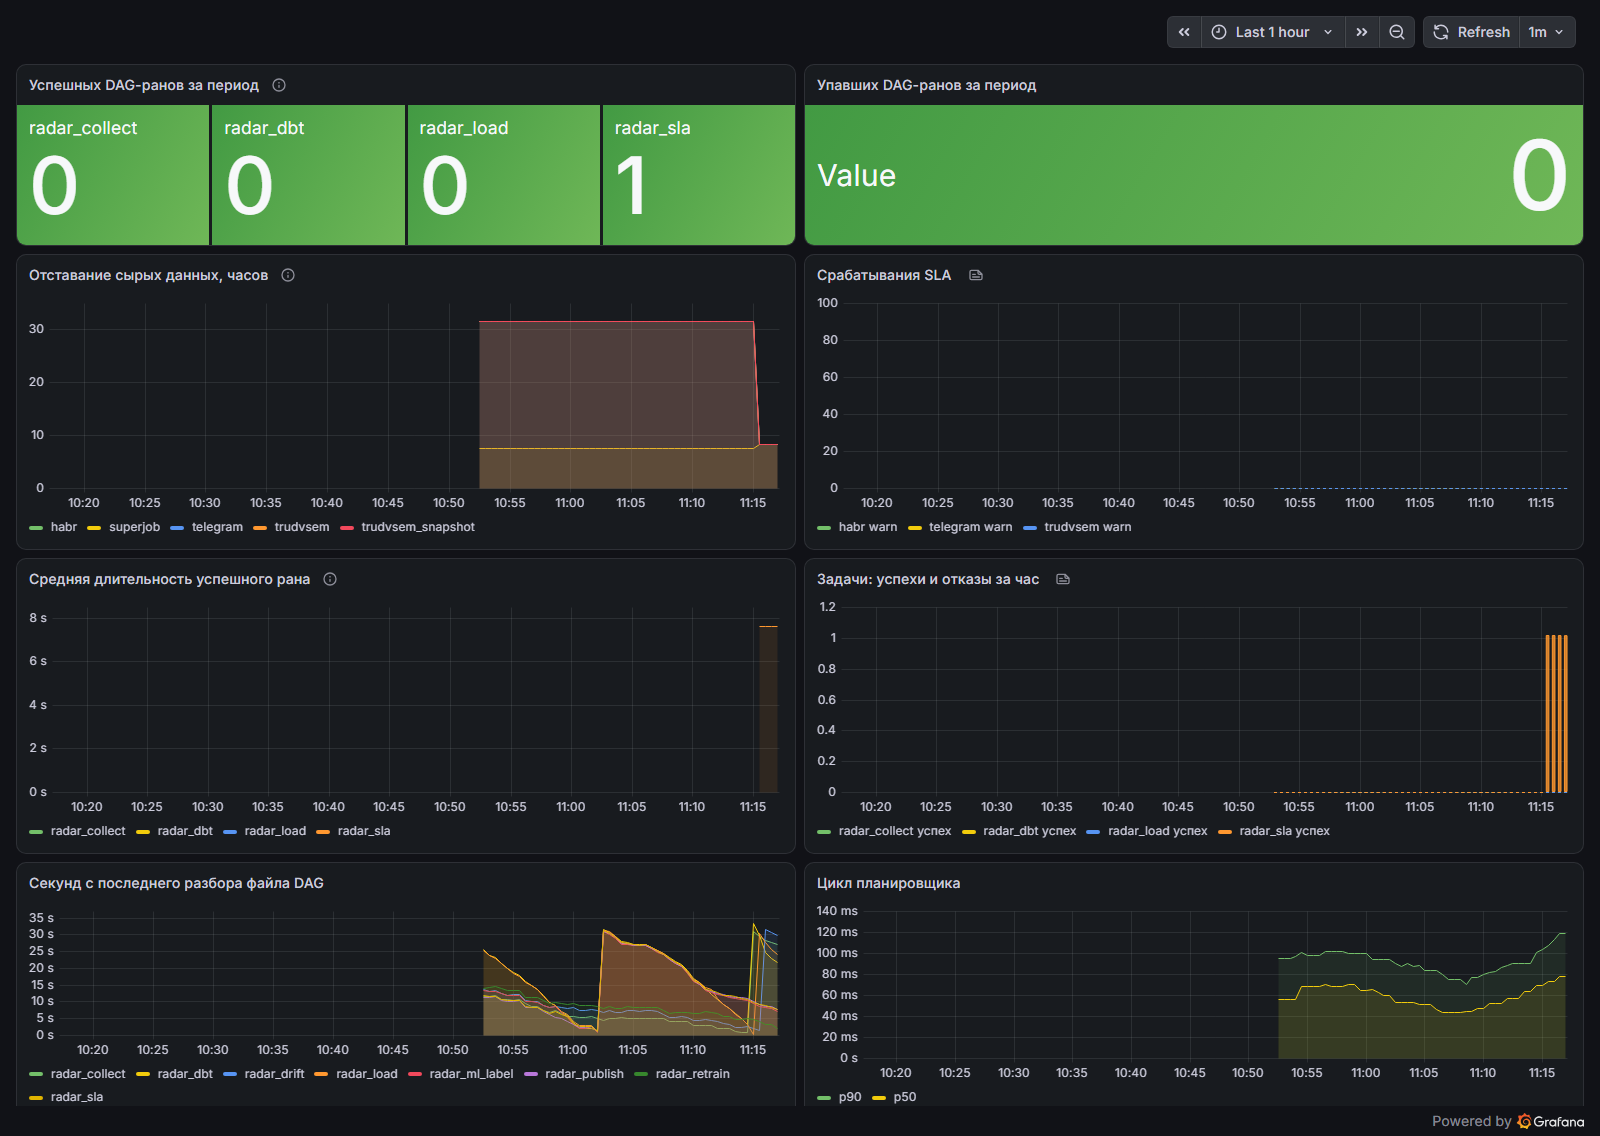
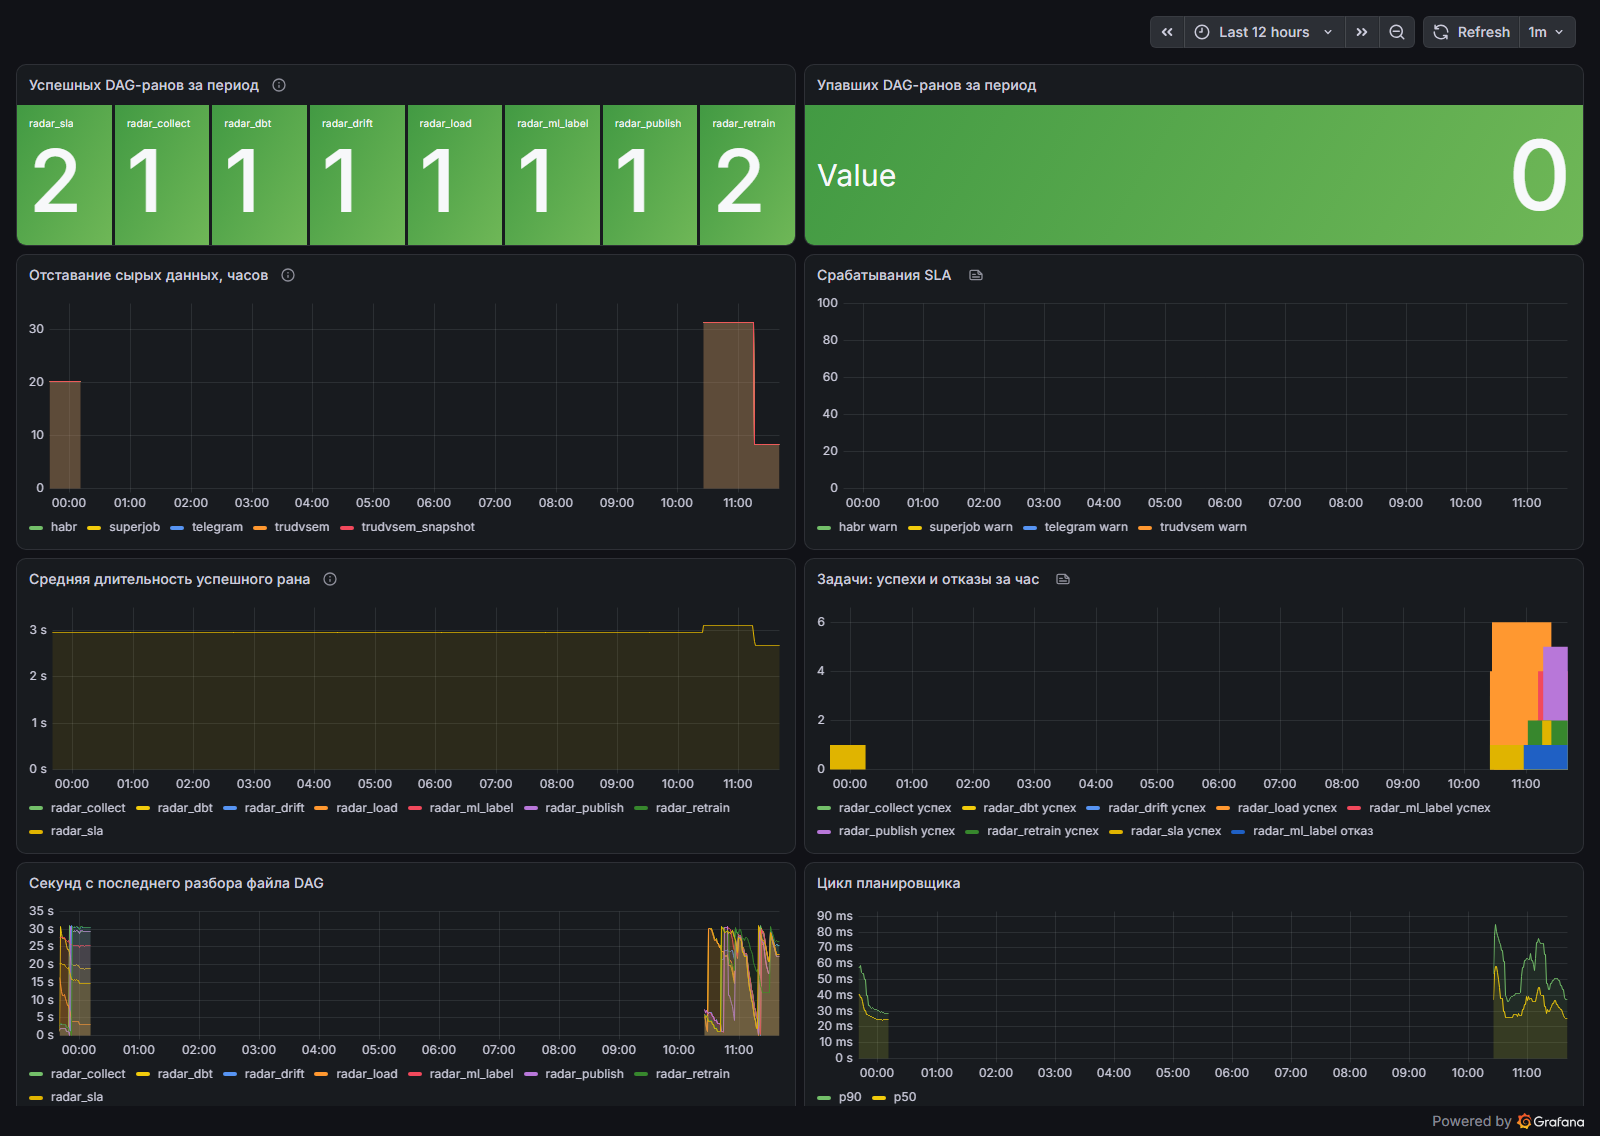
Count once-a-day DAG runs in Grafana and add screenshots of Airflow and the API dashboard

diff --git a/README.md b/README.md
@@ -199,7 +199,7 @@ flowchart LR
 | Коллекторы и чистка ПДн | [`src/radar/collect`](src/radar/collect), [`src/radar/pii`](src/radar/pii) | [`results/collect/`](results/collect/) |
 | Redpanda и загрузка в ClickHouse | [`src/radar/stream`](src/radar/stream), [`infra/compose`](infra/compose) | сверка Parquet с ClickHouse, [`results/stream/replay.json`](results/stream/replay.json) |
 | dbt: staging, история (SCD2, время жизни, перевыкладки), витрины | [`dbt/`](dbt/) | моделей <!--n:dbt/build.json:metrics.models_ok.n:d-->32<!--/n-->, тестов прошло <!--n:dbt/build.json:metrics.tests_passed.n:d-->307<!--/n--> из <!--n:dbt/build.json:metrics.tests_passed.denominator:d-->308<!--/n--> |
-| Airflow: сбор, загрузка, dbt | [`airflow/dags`](airflow/dags) | прогон за прошлые даты, успешных запусков <!--n:airflow/backfill_7d.json:metrics.runs_success.n:d-->15<!--/n--> из <!--n:airflow/backfill_7d.json:metrics.runs_success.denominator:d-->15<!--/n--> |
+| Airflow: сбор, загрузка, dbt, извлечение новых версий студентом на CPU, выгрузка сайта, дрейф, переобучение зарплаты по дрейфу | [`airflow/dags`](airflow/dags), [скриншот](docs/img/airflow_dags.png) | прогон за прошлые даты, успешных запусков <!--n:airflow/backfill_7d.json:metrics.runs_success.n:d-->15<!--/n--> из <!--n:airflow/backfill_7d.json:metrics.runs_success.denominator:d-->15<!--/n--> |
 | Извлечение: корпус, правила, учителя, silver, обучение, оценка | [`src/radar/extract`](src/radar/extract), [`src/radar/train`](src/radar/train), [`src/radar/eval`](src/radar/eval) | [`results/extract/`](results/extract/), [`results/sft/`](results/sft/) |
 | Зарплата, навыки, подбор, прогноз, время жизни, детектор, дедуп | [`src/radar/models`](src/radar/models), [`src/radar/dedup`](src/radar/dedup) | [`results/models/`](results/models/), [`results/dedup/`](results/dedup/) |
 | API, MCP, агент-аналитик | [`src/radar/api`](src/radar/api), [`src/radar/mcp`](src/radar/mcp), [`src/radar/agent`](src/radar/agent) | [`results/api/`](results/api/), [`results/agent/`](results/agent/), [`tests/api/test_e2e.py`](tests/api/test_e2e.py) |

diff --git a/docs/monitoring.md b/docs/monitoring.md
@@ -59,6 +59,14 @@ docker compose -f infra/compose/docker-compose.yml --env-file .env --profile mlo
 
 Собственный эндпоинт Prometheus у ClickHouse выключен: он требует файла в `config.d` и пересоздания сервера. Пока его нет, те же `system.metrics` и `system.events` отдаёт `radar-exporter` с префиксами эндпоинта ClickHouse.
 
+## Airflow
+
+Восемь DAG в [`airflow/dags`](../airflow/dags). Ежедневная цепочка: `radar_collect` забирает партиции с сервера сбора, `radar_load` публикует их в Redpanda, `radar_dbt` пересобирает слои; успешная сборка выдаёт asset `marts`, и `radar_ml_label` извлекает поля новых версий студентом Q4_K_M на CPU (сервис `student` в compose, не больше 150 версий и 60 минут за запуск, остаток ждёт следующего), затем `radar_publish` выгружает агрегаты сайта и прогоняет те же проверки ПДн, что и сборка сайта. Выгрузку он оставляет в рабочем дереве: коммит и push делает человек. По понедельникам `radar_drift` считает дрейф (раздел ниже), а `radar_retrain` переобучает модель зарплат, только если входной признак её источника ушёл за порог 0,1 и за собственный разброс эталонных недель; новая версия получает в реестре alias `challenger`, `champion` не двигается. `radar_sla` раз в час следит за свежестью сырого слоя.
+
+![Airflow: DAG проекта](img/airflow_dags.png)
+
+Скриншоты: `scripts/airflow_screenshot.sh [--dag radar_ml_label]` (пароль администратора берётся из `.env` через окружение).
+
 ## Дрейф и качество извлечения (Evidently)
 
 DAG `radar_drift` по понедельникам в 10:00 UTC строит три отчёта по последней полной неделе каждого источника против его первых четырёх полных недель.
